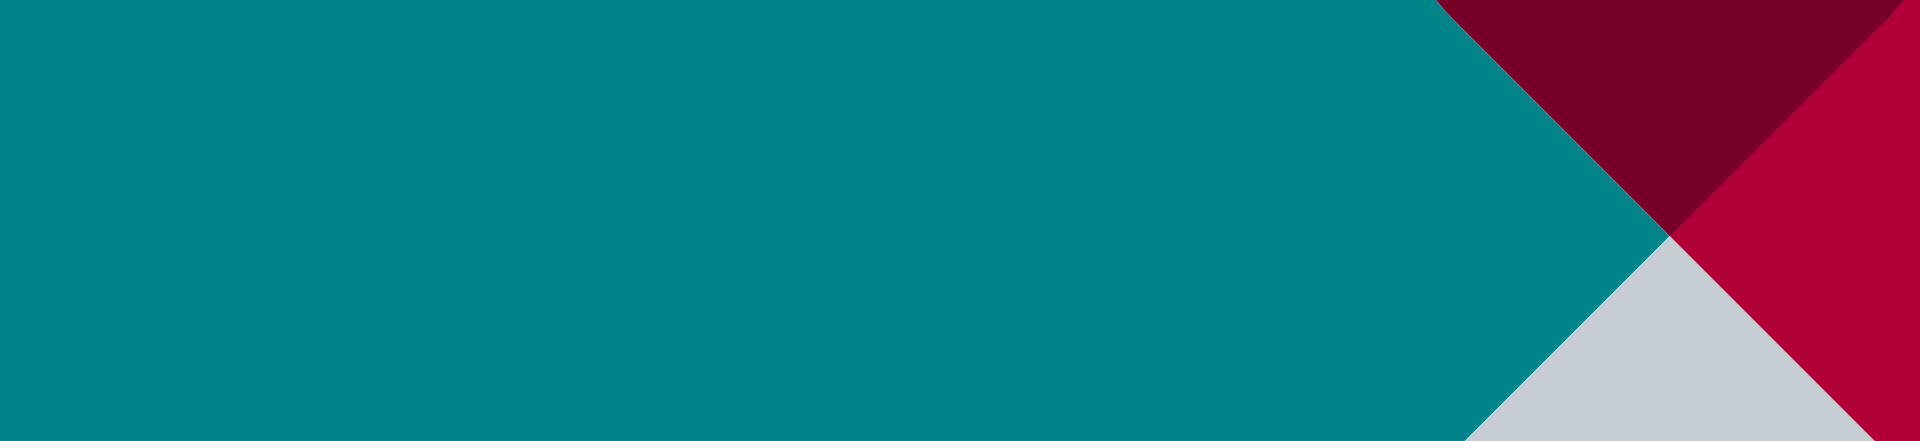
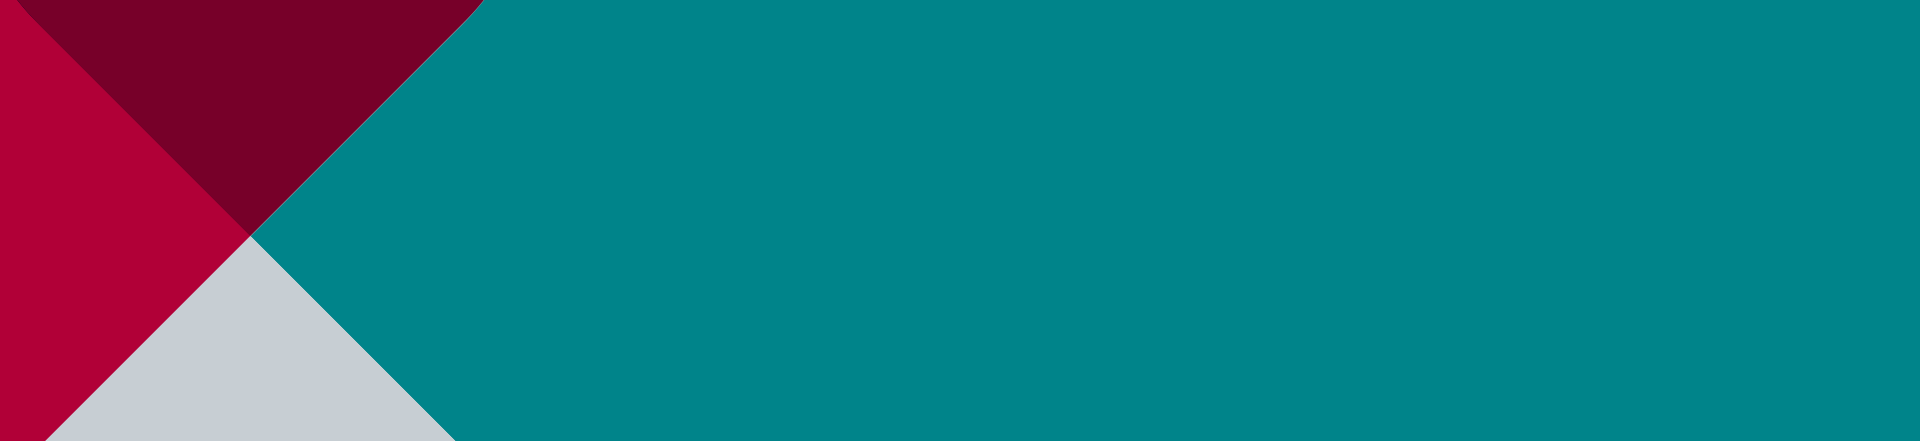
Header is done

diff --git a/templates/theme-header.html b/templates/theme-header.html
@@ -41,18 +41,18 @@ site_status_msg = get_site_status_msg(course_id)
     <div class="container">
         <div class="row">
             <div class="col-md-12">
-    <h1 class="logo">
-        % if user.is_authenticated():
-            <a href="/courses">
-        % else:
-            <a href="${marketing_link('ROOT')}">
-        % endif
+                <h1 class="logo">
+                    % if user.is_authenticated():
+                        <a href="/courses">
+                    % else:
+                        <a href="${marketing_link('ROOT')}">
+                    % endif
 
-        <%block name="navigation_logo">
-            <img src="${static.url(branding.get_logo_url())}" alt="${platform_name()}"/>
-        </%block>
-      </a>
-    </h1>
+                    <%block name="navigation_logo">
+                        <img src="${static.url('themes/edraak/images/edraak_logo.png')}" alt="${platform_name()}"/>
+                    </%block>
+                  </a>
+                </h1>
 
     % if course:
     <h2><span class="provider">${course.display_org_with_default | h}:</span> ${course.display_number_with_default | h} ${course.display_name_with_default}</h2>
@@ -61,8 +61,8 @@ site_status_msg = get_site_status_msg(course_id)
     % if user.is_authenticated():
 
 
-    <ol class="language-select">
-    </ol>
+<!--    <ol class="language-select">
+    </ol> -->
 
     <ol class="user">
       <li class="primary">

diff --git a/static/sass/_application.scss b/static/sass/_application.scss
@@ -1,0 +1,49 @@
+header.global {
+  height: auto;
+
+  h1.logo {
+    margin: 15px 0;
+  }
+
+  ol.left {
+    margin-top: 37px;
+    float: flip(right, left);
+  }
+
+  ol.user {
+    float: flip(right, left);
+    margin-top: 31px;
+    #{$padding-left}: 5px;
+    #{$padding-right}: 0;
+
+    ul.dropdown-menu.expanded {
+      left: flip(0, -139px);
+      top: 28px;
+
+      &:before {
+        left: flip(0, 144px);
+      }
+    }
+  }
+
+  .nav-global {
+    li {
+      #{$border-right}: 1px solid #646464;
+      margin: 0;
+      #{$padding-left}: 0;
+      #{$padding-right}: 5px;
+
+      &:last-child {
+        #{$border-right}: 0;
+      }
+
+      a {
+        font-weight: normal;
+        font-size: 16px;
+        letter-spacing: 0px;
+        padding: 5px;
+        padding-top: 0;
+      }
+    }
+  }
+}

diff --git a/static/sass/_variables.scss b/static/sass/_variables.scss
@@ -7,8 +7,7 @@ $body-font-family: $droid-sans;
 $serif: $georgia;
 
 // IMAGES: backgrounds
-$homepage-bg-image:  url(../themes/edraak/images/edraak_header_bg_ar.png);
-$homepage-bg-image_ar:  url(../themes/edraak/images/edraak_header_bg_ar.png);
+$homepage-bg-image: flip(url(../themes/edraak/images/edraak_header_bg.png), url(../themes/edraak/images/edraak_header_bg_ar.png));
 
 $login-banner-image: url(../themes/edraak/images/bg-banner-account.png);
 $register-banner-image: url(../themes/edraak/images/bg-banner-account.png);

diff --git a/static/sass/_edraak.scss b/static/sass/_edraak.scss
@@ -1,2 +1,3 @@
-@import "_variables.scss";
-@import "_fonts.scss";
+@import "variables";
+@import "fonts";
+@import "application";
